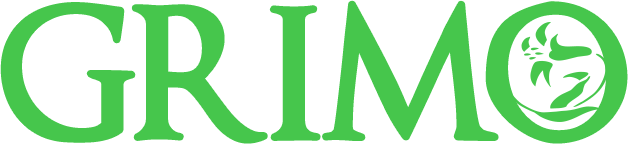
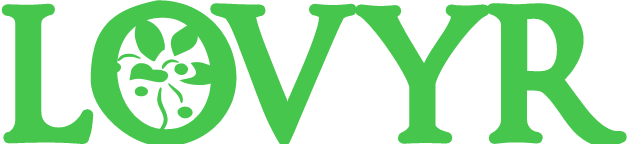
mudança do nome GRIMO para LOVYR

diff --git a/public/index.html b/public/index.html
@@ -5,12 +5,12 @@
   <meta charset="utf-8" />
   <link rel="icon" href="%PUBLIC_URL%/favicon.ico" />
   <meta name="viewport" content="width=device-width, initial-scale=1" />
-  <meta name="theme-color" content="#000000" />
-  <meta name="description" content="Web site created using create-react-app" />
+  <meta name="theme-color" content="#46c64c" />
+  <meta name="description" content="O lovyr é um sistema que gerencia campanhas de RPG de vários sistemas." />
   <link rel="apple-touch-icon" href="%PUBLIC_URL%/logo192.png" />
   <link rel="stylesheet" href="https://cdnjs.cloudflare.com/ajax/libs/font-awesome/6.5.0/css/all.min.css" />
   <link rel="manifest" href="%PUBLIC_URL%/manifest.json" />
-  <title>GRIMO</title>
+  <title>lovyr</title>
 </head>
 
 <body>

diff --git a/backend/server.js b/backend/server.js
@@ -11,7 +11,7 @@ app.set("trust proxy", 1);
 
 const allowedOrigins = [
   "http://localhost:3000",
-  "https://grimo.vercel.app",
+  "https://lovyr.vercel.app",
 ];
 
 app.use(cors({
@@ -40,8 +40,8 @@ const sessionStore = new MySQLStore({
 });
 
 app.use(session({
-  name: "grimo.sid",
-  secret: process.env.SESSION_SECRET || "grimo-secret-key",
+  name: "lovyr.sid",
+  secret: process.env.SESSION_SECRET || "lovyr-secret-key",
   resave: false,
   saveUninitialized: false,
   store: sessionStore,
